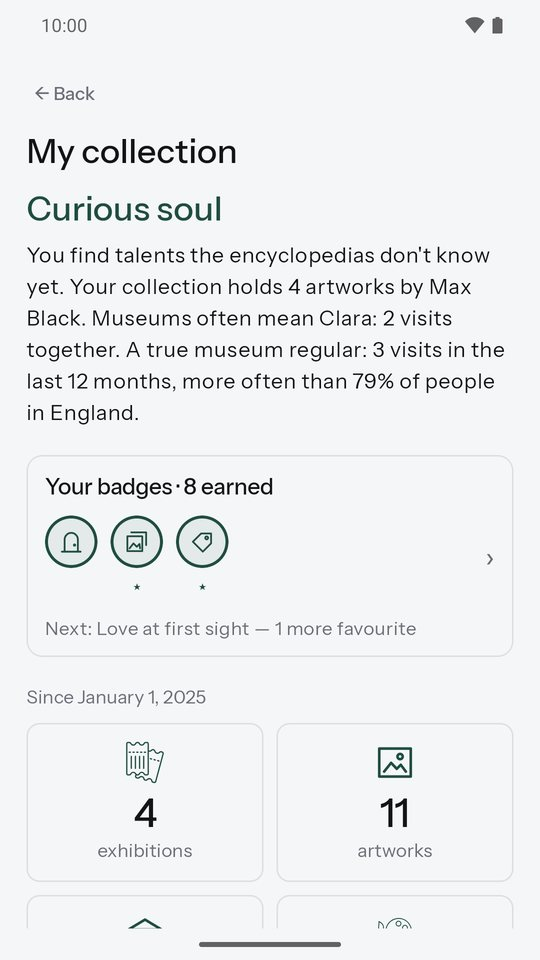
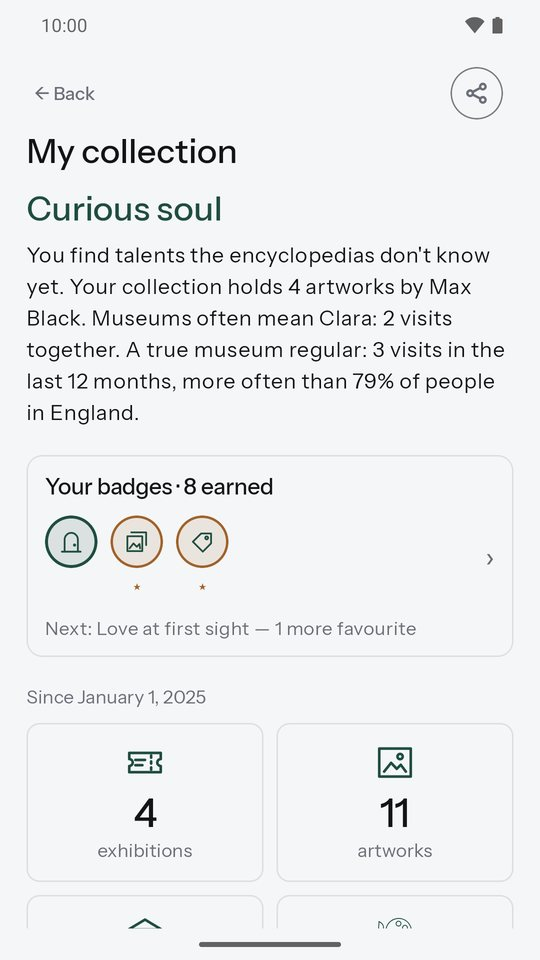
Add files via upload

diff --git a/index.html b/index.html
@@ -124,7 +124,7 @@ footer .wrap { display: flex; flex-wrap: wrap; gap: 8px 24px; justify-content: s
       <div class="wrap">
         <h2>Tout ce qu’il faut, rien de plus</h2>
       <div class="fonction">
-        <div class="texte"><h3>Ajoutez une œuvre en quelques secondes</h3><p>Prenez l'œuvre en photo ou importez-la de votre galerie. Scannez le cartel, sur place ou depuis une photo : l'application lit le texte et vous propose l'artiste et le titre, directement sur votre téléphone. Le nom de l'artiste vous est suggéré pendant la saisie, et une faute de frappe est repérée. L'exposition, le lieu, la date et vos compagnons de visite sont repris d'une œuvre à l'autre. Le soir, ajoutez toutes vos photos d'un coup : une œuvre par photo, à la date de la prise de vue.</p></div>
+        <div class="texte"><h3>Ajoutez une œuvre en quelques secondes</h3><p>Prenez l'œuvre en photo ou importez-la de votre galerie. Scannez le cartel, sur place ou depuis une photo : l'application lit le texte et vous propose l'artiste et le titre, directement sur votre téléphone. Le nom de l'artiste vous est suggéré pendant la saisie, et une faute de frappe est repérée ; pour le titre, les œuvres célèbres de l'artiste. Une œuvre inconnue ? « Rechercher cette œuvre » l'identifie avec Google Lens. L'exposition, le lieu, la date et vos compagnons de visite sont repris d'une œuvre à l'autre. Le soir, ajoutez toutes vos photos d'un coup : une œuvre par photo, à la date de la prise de vue.</p></div>
         <div class="telephone"><picture><source srcset="assets/fr-sombre-04-modifier-oeuvre.jpg" media="(prefers-color-scheme: dark)"><img src="assets/fr-clair-04-modifier-oeuvre.jpg" alt="Formulaire d'ajout d'une œuvre, avec photo et scan du cartel" width="540" height="960" loading="lazy" decoding="async"></picture></div>
       </div>
       <div class="fonction">
@@ -140,11 +140,11 @@ footer .wrap { display: flex; flex-wrap: wrap; gap: 8px 24px; justify-content: s
         <div class="telephone"><picture><source srcset="assets/fr-sombre-05-recherche.jpg" media="(prefers-color-scheme: dark)"><img src="assets/fr-clair-05-recherche.jpg" alt="Recherche dans la collection" width="540" height="960" loading="lazy" decoding="async"></picture></div>
       </div>
       <div class="fonction">
-        <div class="texte"><h3>Votre profil d'amateur</h3><p>« Âme impressionniste », « Passionnée de Renaissance », « Dénicheuse de talents »… Ma collection dresse votre portrait, qui évolue avec vos visites : votre artiste de prédilection, votre musée fétiche, votre complice de musée, votre rythme de visite comparé aux statistiques nationales, et vos œuvres par artiste, mouvement, époque et lieu. Au féminin ou au masculin, comme vous préférez.</p></div>
+        <div class="texte"><h3>Votre profil d'amateur</h3><p>« Âme impressionniste », « Passionnée de Renaissance », « Dénicheuse de talents »… Ma collection dresse votre portrait, qui évolue avec vos visites : votre artiste de prédilection, votre musée fétiche, votre complice de musée, votre rythme de visite comparé aux statistiques nationales, et vos œuvres par artiste, mouvement, époque et lieu. Au féminin ou au masculin, comme vous préférez. Partagez votre portrait en image, sans le nom de vos proches.</p></div>
         <div class="telephone"><picture><source srcset="assets/fr-sombre-06-ma-collection.jpg" media="(prefers-color-scheme: dark)"><img src="assets/fr-clair-06-ma-collection.jpg" alt="Ma collection : le profil et les chiffres" width="540" height="960" loading="lazy" decoding="async"></picture></div>
       </div>
       <div class="fonction">
-        <div class="texte"><h3>Des badges à collectionner</h3><p>Marathon, Quatre saisons, Nuit des musées, Plume… 27 badges se gagnent au fil de vos visites, avec cinq paliers du bronze au diamant. Un message vous prévient dès que vous en décrochez un. Les autres restent une surprise, mais vos prochains objectifs vous montrent ceux qui sont à portée.</p></div>
+        <div class="texte"><h3>Des badges à collectionner</h3><p>Marathon, Quatre saisons, Nuit des musées, Plume… 27 badges se gagnent au fil de vos visites, avec cinq paliers du bronze au diamant. Un message vous prévient dès que vous en décrochez un. Les autres restent une surprise, mais vos prochains objectifs vous montrent ceux qui sont à portée. Un badge décroché ? Partagez-le en image.</p></div>
         <div class="telephone"><picture><source srcset="assets/fr-sombre-07-mes-badges.jpg" media="(prefers-color-scheme: dark)"><img src="assets/fr-clair-07-mes-badges.jpg" alt="Mes badges et les prochains objectifs" width="540" height="960" loading="lazy" decoding="async"></picture></div>
       </div>
       <div class="fonction">

diff --git a/en/index.html b/en/index.html
@@ -124,7 +124,7 @@ footer .wrap { display: flex; flex-wrap: wrap; gap: 8px 24px; justify-content: s
       <div class="wrap">
         <h2>Everything you need, nothing more</h2>
       <div class="fonction">
-        <div class="texte"><h3>Add an artwork in seconds</h3><p>Photograph the artwork or import it from your gallery. Scan the label, on the spot or from a photo: the app reads the text and suggests the artist and title, right on your phone. The artist's name is suggested as you type, and typos are spotted. The exhibition, place, date and the people you're with carry over from one artwork to the next. In the evening, add all your photos at once: one artwork per photo, dated from the photos.</p></div>
+        <div class="texte"><h3>Add an artwork in seconds</h3><p>Photograph the artwork or import it from your gallery. Scan the label, on the spot or from a photo: the app reads the text and suggests the artist and title, right on your phone. The artist's name is suggested as you type, and typos are spotted; for the title, the artist's famous works. An unknown artwork? "Search this artwork" identifies it with Google Lens. The exhibition, place, date and the people you're with carry over from one artwork to the next. In the evening, add all your photos at once: one artwork per photo, dated from the photos.</p></div>
         <div class="telephone"><picture><source srcset="../assets/en-sombre-04-modifier-oeuvre.jpg" media="(prefers-color-scheme: dark)"><img src="../assets/en-clair-04-modifier-oeuvre.jpg" alt="Artwork form, with photo and label scanning" width="540" height="960" loading="lazy" decoding="async"></picture></div>
       </div>
       <div class="fonction">
@@ -140,11 +140,11 @@ footer .wrap { display: flex; flex-wrap: wrap; gap: 8px 24px; justify-content: s
         <div class="telephone"><picture><source srcset="../assets/en-sombre-05-recherche.jpg" media="(prefers-color-scheme: dark)"><img src="../assets/en-clair-05-recherche.jpg" alt="Searching the collection" width="540" height="960" loading="lazy" decoding="async"></picture></div>
       </div>
       <div class="fonction">
-        <div class="texte"><h3>Your art-lover profile</h3><p>"Impressionist soul", "Renaissance enthusiast", "Talent scout"… My collection paints your portrait, which evolves with your visits: your favourite artist, your favourite museum, your museum buddy, how often you visit compared with national statistics, and your artworks by artist, movement, era and place.</p></div>
+        <div class="texte"><h3>Your art-lover profile</h3><p>"Impressionist soul", "Renaissance enthusiast", "Talent scout"… My collection paints your portrait, which evolves with your visits: your favourite artist, your favourite museum, your museum buddy, how often you visit compared with national statistics, and your artworks by artist, movement, era and place. Share your portrait as an image, without the names of your companions.</p></div>
         <div class="telephone"><picture><source srcset="../assets/en-sombre-06-ma-collection.jpg" media="(prefers-color-scheme: dark)"><img src="../assets/en-clair-06-ma-collection.jpg" alt="My collection: profile and numbers" width="540" height="960" loading="lazy" decoding="async"></picture></div>
       </div>
       <div class="fonction">
-        <div class="texte"><h3>Badges to collect</h3><p>Marathon, Four seasons, Museum Day, Quill… 27 badges to earn as you visit, with five levels from bronze to diamond. A message tells you as soon as you earn one. The others stay a surprise, but your next goals show you the ones within reach.</p></div>
+        <div class="texte"><h3>Badges to collect</h3><p>Marathon, Four seasons, Museum Day, Quill… 27 badges to earn as you visit, with five levels from bronze to diamond. A message tells you as soon as you earn one. The others stay a surprise, but your next goals show you the ones within reach. Earned a badge? Share it as an image.</p></div>
         <div class="telephone"><picture><source srcset="../assets/en-sombre-07-mes-badges.jpg" media="(prefers-color-scheme: dark)"><img src="../assets/en-clair-07-mes-badges.jpg" alt="My badges and next goals" width="540" height="960" loading="lazy" decoding="async"></picture></div>
       </div>
       <div class="fonction">
